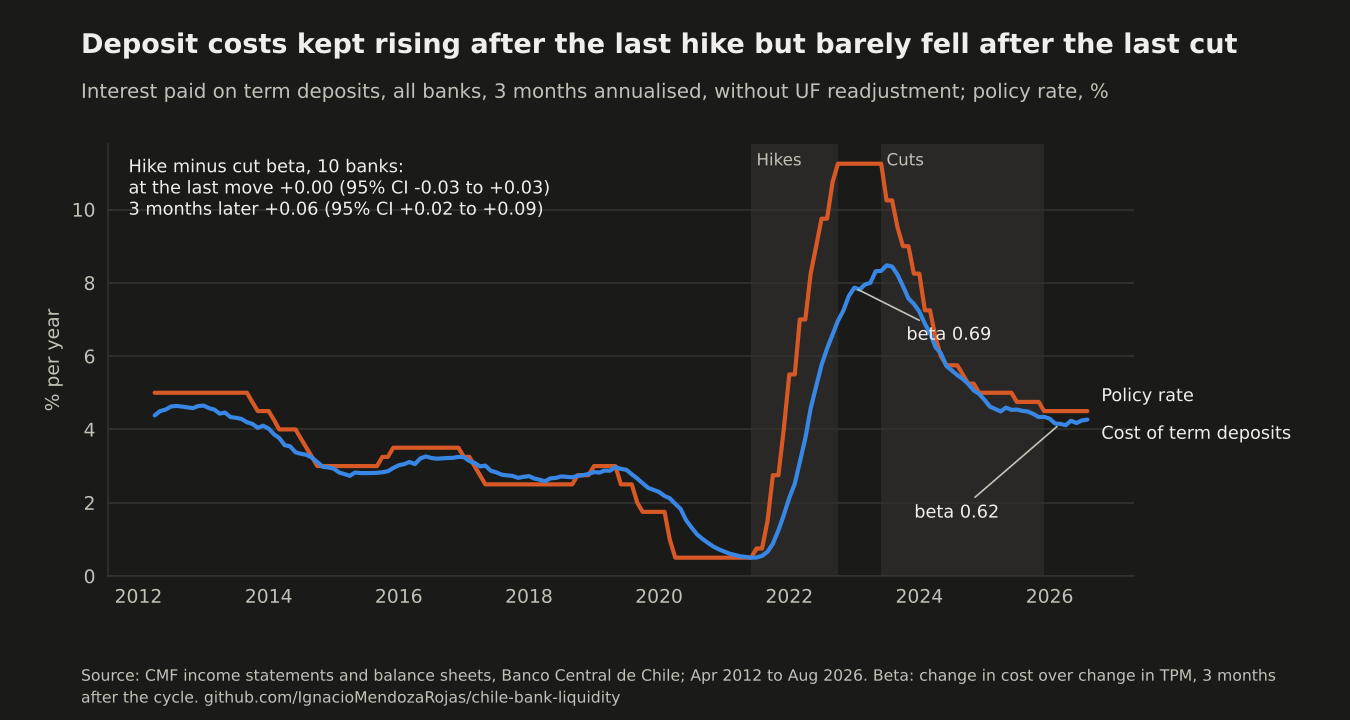
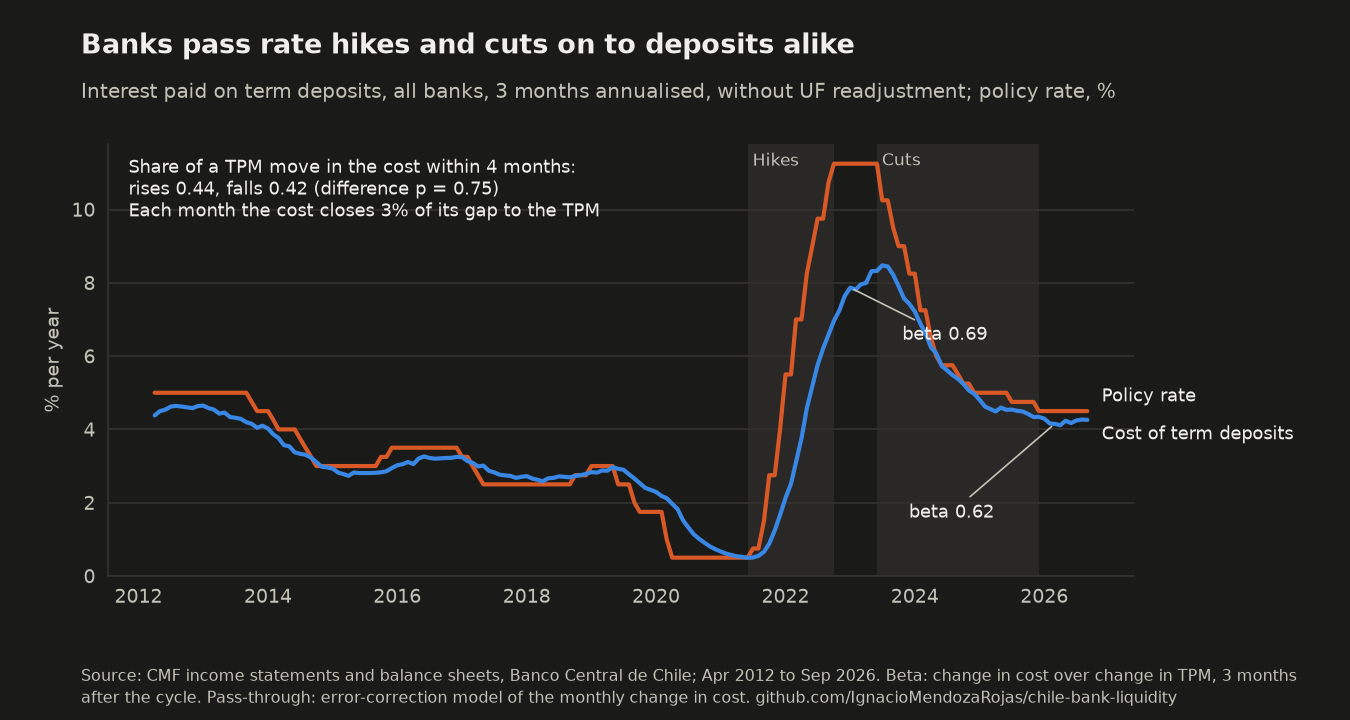
Liquidity section: figures filled from results.json, generic At work line, disclaimer
Claude-Session: https://claude.ai/code/session_01GFch6QeNZwJZqxQ1C2u7cB

diff --git a/index.html b/index.html
@@ -44,17 +44,17 @@
 
 <section class="finding" aria-labelledby="c-liq">
   <p class="project"><strong>Liquidity risk &amp; funding</strong></p>
-  <h2 id="c-liq">Rate hikes kept reaching deposit costs after the last move; cuts did not.</h2>
+  <h2 id="c-liq"><!--x:liquidity.cost_headline-->Banks pass rate hikes and cuts on to deposits alike<!--/x-->; what differs is how far a cycle leaves them from the policy rate.</h2>
   <div class="measure">
-    <p>Three months after each cycle, Chilean banks had passed on 0.69 of the 2021-22 hikes but 0.62 of the 2023-25 cuts; across ten banks the gap is +0.06 (95% CI 0.02 to 0.09). At the last move the two were equal, so the difference is in what comes after: hikes keep repricing maturing deposits, cuts stop. For a liquidity or ALM model, a symmetric deposit beta overstates how fast funding gets cheaper.</p>
+    <p>Within <!--x:liquidity.pass_lags-->4<!--/x--> months, <!--x:liquidity.pass_up-->0.44<!--/x--> of a rise in the policy rate and <!--x:liquidity.pass_down-->0.42<!--/x--> of a fall reach the cost of term deposits of Chilean banks (difference p = <!--x:liquidity.pass_p-->0.75<!--/x-->), and <!--x:liquidity.spread_banks_sig-->0<!--/x--> of <!--x:liquidity.spread_banks-->10<!--/x--> large banks show a significant difference. What changes is the starting point: when the <!--x:liquidity.hike_years-->2021-22<!--/x--> hikes ended, deposit costs were <!--x:liquidity.gap_end_hikes-->4.3<!--/x--> points below the policy rate and kept repricing towards it; when the <!--x:liquidity.cut_years-->2023-25<!--/x--> cuts ended, only <!--x:liquidity.gap_end_cuts-->0.2<!--/x--> points. For a liquidity or ALM model, the gap left at the end of a cycle matters more than the direction of the rate.</p>
   </div>
   <figure>
     <picture>
       <source media="(prefers-color-scheme: dark)" srcset="assets/fig/liquidity-dark.png">
-      <img src="assets/fig/liquidity-light.png" alt="Cost of term deposits of Chilean banks and the policy rate, 2012-2026: three months after each cycle, beta of 0.69 for the 2021-22 hikes and 0.62 for the 2023-25 cuts; across banks the gap is +0.06, 95% CI 0.02 to 0.09" loading="lazy" width="1350" height="720">
+      <img src="assets/fig/liquidity-light.png" alt="Cost of term deposits of Chilean banks and the policy rate since 2012, with the last hike and cut cycles marked and the pass-through of rises and falls from an error-correction model" loading="lazy" width="1350" height="720">
     </picture>
   </figure>
-  <p class="context measure"><span><strong>Built:</strong> balance sheets and income statements of every Chilean bank since 2008: stable core, stress outflows, out-of-sample forecasts, mutual-fund funding and deposit betas, updated monthly.</span> <span><strong>At work:</strong> deposit decay, ILAAP projections under Basel III and cash-flow stress tests.</span> <span class="links"><a href="https://github.com/IgnacioMendozaRojas/chile-bank-liquidity">chile-bank-liquidity</a> · <a href="https://github.com/IgnacioMendozaRojas/chile-mutual-funds-analytics">chile-mutual-funds-analytics</a></span></p>
+  <p class="context measure"><span><strong>Built:</strong> balance sheets and income statements of every Chilean bank since 2008: stable core, stress outflows, out-of-sample forecasts, mutual-fund funding and deposit betas, updated monthly.</span> <span><strong>At work:</strong> the deposit behaviour assumptions that liquidity risk and ALM models rely on: stable core, run-off under stress and deposit betas.</span> <span class="links"><a href="https://github.com/IgnacioMendozaRojas/chile-bank-liquidity">chile-bank-liquidity</a> · <a href="https://github.com/IgnacioMendozaRojas/chile-mutual-funds-analytics">chile-mutual-funds-analytics</a></span></p>
 </section>
 
 <section class="finding" aria-labelledby="c-credit">
@@ -141,7 +141,7 @@
 </section>
 
 <footer>
-  Everything here uses public data or my own anonymised records, and no employer code, data or parameters. The equity reports are a portfolio exercise, not investment advice.
+  Everything here uses public data or my own anonymised records, and no employer code, data or parameters. The equity reports are a portfolio exercise, not investment advice. The views are my own and not those of my employer.
 </footer>
 
 </main>

diff --git a/tools/build.py b/tools/build.py
@@ -1,4 +1,5 @@
-"""Copy figures from the project repositories and render the SQM reports as pages.
+"""Copy figures from the project repositories, fill the figures in index.html from their
+results.json, and render the SQM reports as pages.
 
 Run from the site root with the project repositories checked out next to it:
     python tools/build.py
@@ -6,6 +7,7 @@ Run from the site root with the project repositories checked out next to it:
 
 from __future__ import annotations
 
+import json
 import re
 import shutil
 from pathlib import Path
@@ -23,6 +25,10 @@ FIGURES = {
     "restaurant": "restaurant-analytics/docs/break-even-{theme}.png",
     "governance": "ownership-and-boards/docs/figures/representation-{theme}.png",
 }
+# figures in index.html sit between <!--x:repo.key--> and <!--/x--> and come from the
+# "facts" of each repository's results.json, so the page never drifts from the repo
+RESULTS = {"liquidity": "chile-bank-liquidity/results.json"}
+MARK = re.compile(r"<!--x:([a-z]+)\.([a-z0-9_]+)-->(.*?)<!--/x-->", re.DOTALL)
 REPORTS = REPOS / "equity-research-engine/companies/sqm/reports"
 TEMPLATE = """<!doctype html>
 <html lang="en">
@@ -54,6 +60,26 @@ def figures() -> None:
             shutil.copy(REPOS / src.format(theme=theme), out / f"{name}-{theme}.png")
 
 
+def fill(text: str, facts: dict[str, dict[str, str]]) -> str:
+    """Replace each marked figure; a key missing from results.json raises."""
+
+    def sub(mo: re.Match) -> str:
+        repo, key = mo.group(1), mo.group(2)
+        if key not in facts.get(repo, {}):
+            raise KeyError(f"index.html marker {repo}.{key} has no value in {RESULTS.get(repo)}")
+        return f"<!--x:{repo}.{key}-->{facts[repo][key]}<!--/x-->"
+
+    return MARK.sub(sub, text)
+
+
+def numbers() -> None:
+    facts = {
+        repo: json.loads((REPOS / path).read_text(encoding="utf-8"))["facts"] for repo, path in RESULTS.items()
+    }
+    page = SITE / "index.html"
+    page.write_text(fill(page.read_text(encoding="utf-8"), facts), encoding="utf-8")
+
+
 def reports() -> None:
     out = SITE / "research/sqm"
     (out / "figures").mkdir(parents=True, exist_ok=True)
@@ -77,5 +103,6 @@ def reports() -> None:
 
 if __name__ == "__main__":
     figures()
+    numbers()
     reports()
     print("built")
